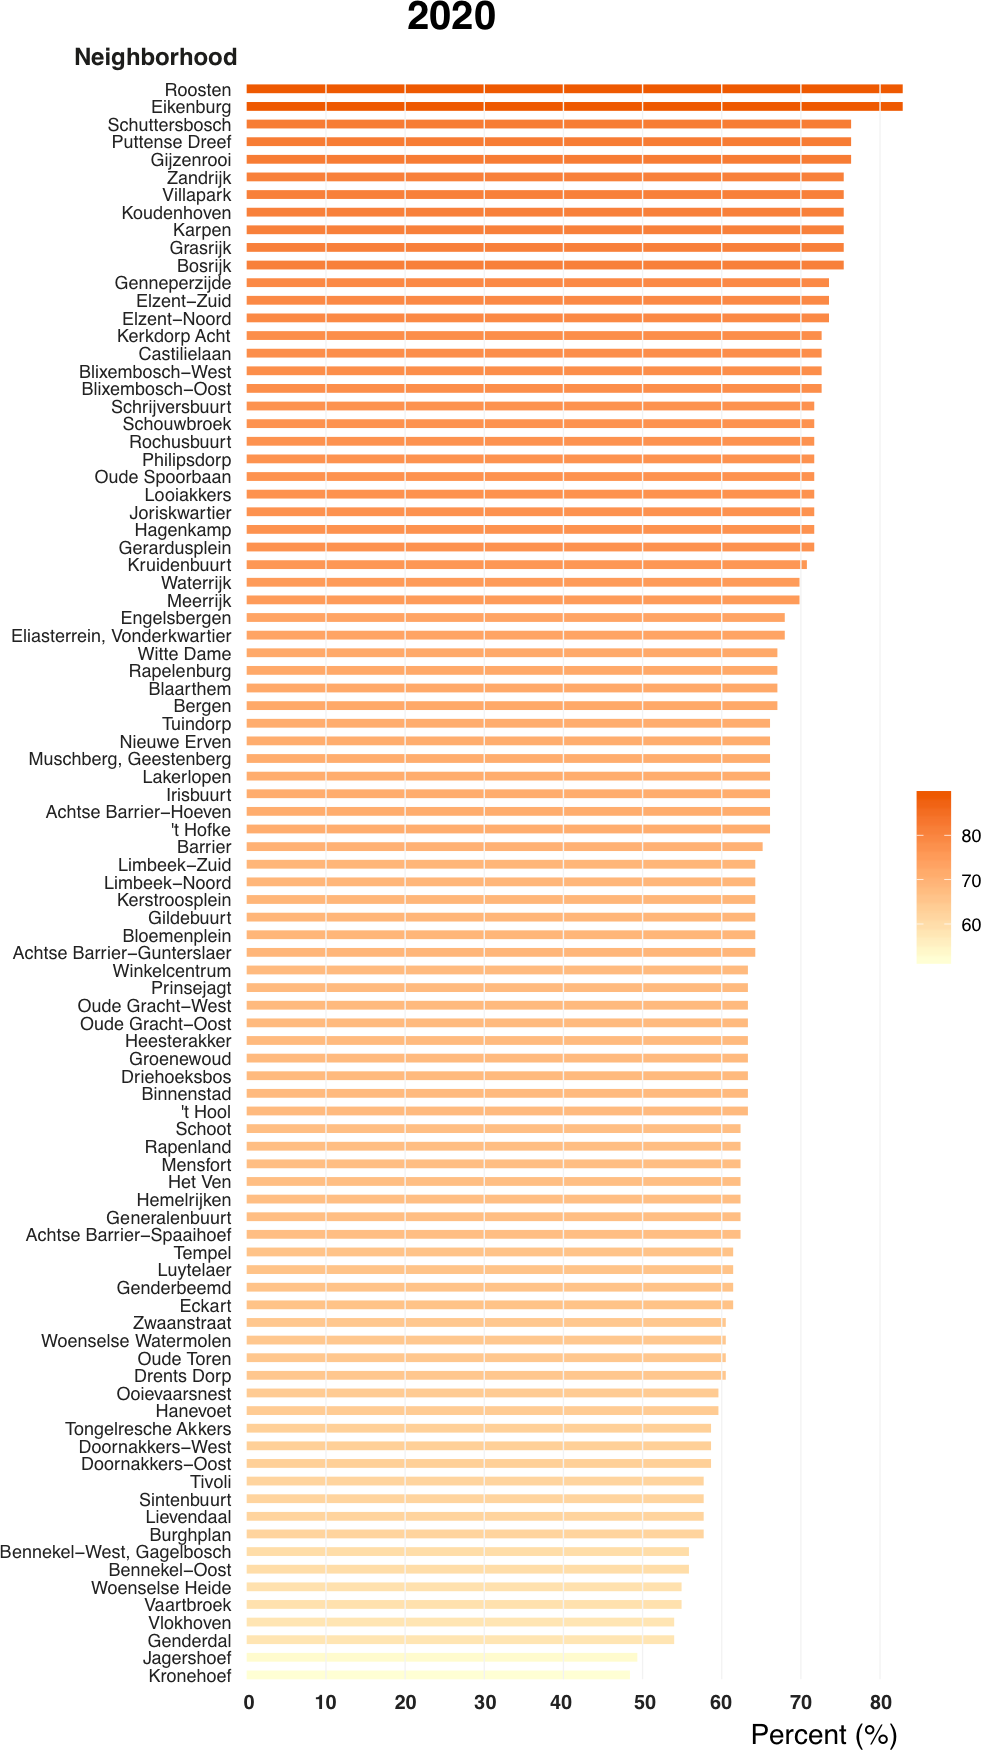
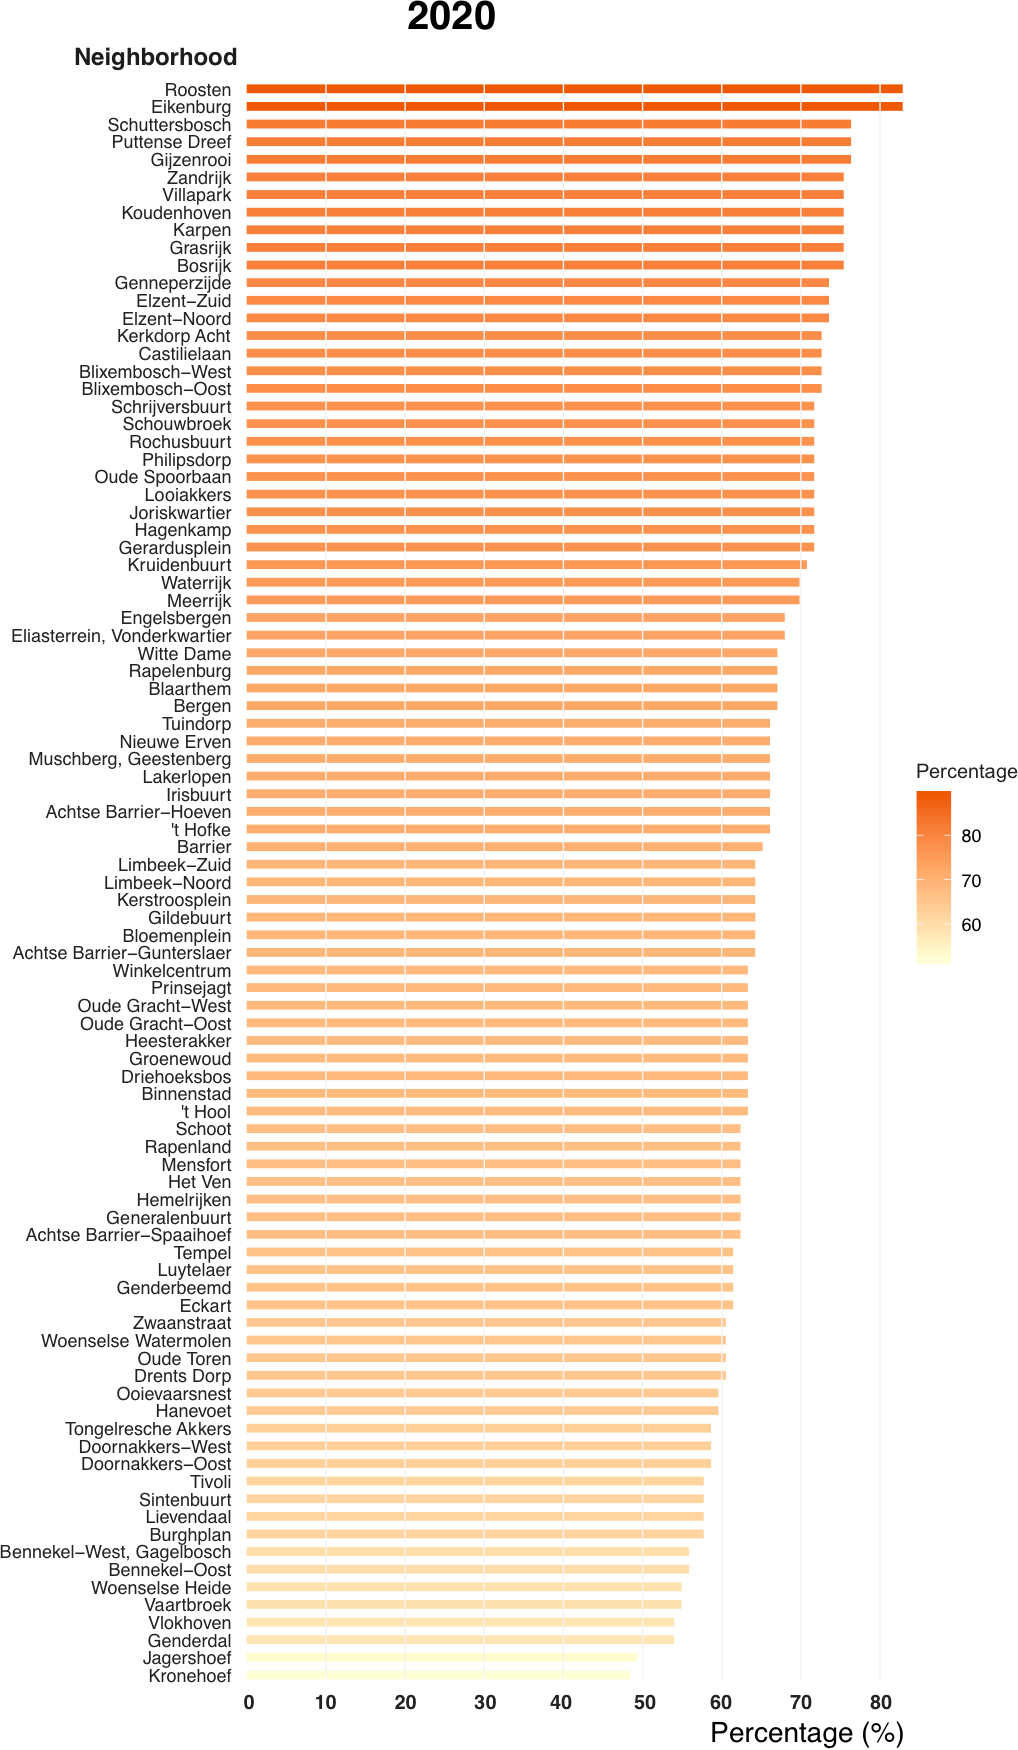
updates

diff --git a/src/assets/static/gc_typed.html b/src/assets/static/gc_typed.html
@@ -15,21 +15,21 @@
   <link rel="stylesheet" href="https://use.fontawesome.com/releases/v5.8.1/css/all.css" integrity="sha384-50oBUHEmvpQ+1lW4y57PTFmhCaXp0ML5d60M1M7uH2+nqUivzIebhndOJK28anvf" crossorigin="anonymous">
 </head>
 <body>
-  <h1 style="font-weight:200; font-size: 20px; font-family: Helvetica, sans-serif; margin-bottom: 40px;"><span style="font-weight:600">Type D</span>: Bar Charts (Sports participation by neighborhood from 2016 to 2020)</h1>
+  <h1 style="font-weight:200; font-size: 20px; font-family: Helvetica, sans-serif; margin-bottom: 40px;"><span style="font-weight:600">Type D</span>: Bar Charts (Percentage of sports participation by neighborhood from 2016 to 2020)</h1>
   <div style="display: inline-block; margin: 10px;">
-    <img src="/assets/img/gc/typed/typeD2016.png" alt="type D: Bar chart 2016" style="width: 100%; max-width: 495px;">
+    <img src="/assets/img/gc/typed/typeD2016.png" alt="type D: Bar chart 2016" style="width: 100%; max-width: 510px;">
   </div>
   <div style="display: inline-block; margin: 10px;">
-    <img src="/assets/img/gc/typed/typeD2017.png" alt="type D: Bar chart 2017" style="width: 100%; max-width: 491px;">
+    <img src="/assets/img/gc/typed/typeD2017.png" alt="type D: Bar chart 2017" style="width: 100%; max-width: 510px;">
   </div>
   <div style="display: inline-block; margin: 10px;">
-    <img src="/assets/img/gc/typed/typeD2018.png" alt="type D: Bar chart 2018" style="width: 100%; max-width: 491px;">
+    <img src="/assets/img/gc/typed/typeD2018.png" alt="type D: Bar chart 2018" style="width: 100%; max-width: 510px;">
   </div>
   <div style="display: inline-block; margin: 10px;">
-    <img src="/assets/img/gc/typed/typeD2019.png" alt="type D: Bar chart 2019" style="width: 100%; max-width: 493px;">
+    <img src="/assets/img/gc/typed/typeD2019.png" alt="type D: Bar chart 2019" style="width: 100%; max-width: 510px;">
   </div>
   <div style="display: inline-block; margin: 10px;">
-    <img src="/assets/img/gc/typed/typeD2020.png" alt="type D: Bar chart 2020" style="width: 100%; max-width: 491px;">
+    <img src="/assets/img/gc/typed/typeD2020.png" alt="type D: Bar chart 2020" style="width: 100%; max-width: 510px;">
   </div>
 </body>
 </html>

diff --git a/src/assets/static/gc_typef.html b/src/assets/static/gc_typef.html
@@ -15,7 +15,7 @@
   <link rel="stylesheet" href="https://use.fontawesome.com/releases/v5.8.1/css/all.css" integrity="sha384-50oBUHEmvpQ+1lW4y57PTFmhCaXp0ML5d60M1M7uH2+nqUivzIebhndOJK28anvf" crossorigin="anonymous">
 </head>
 <body>
-  <h1 style="font-weight:200; font-size: 20px; font-family: Helvetica, sans-serif; margin-bottom: 40px;"><span style="font-weight:600">Type F</span>: Spider charts (Sports participation by neighborhood from 2016 to 2020)</h1>
+  <h1 style="font-weight:200; font-size: 20px; font-family: Helvetica, sans-serif; margin-bottom: 40px;"><span style="font-weight:600">Type F</span>: Spider charts (Percentage of sports participation by neighborhood from 2016 to 2020)</h1>
   <div style="display: inline-block; margin: 0px;">
     <img src="/assets/img/gc/typef/typeF1.png" alt="type F: Spider chart" style="width: 100%; max-width: 300px;">
   </div>

diff --git a/src/assets/static/gc_typee.html b/src/assets/static/gc_typee.html
@@ -15,7 +15,7 @@
   <link rel="stylesheet" href="https://use.fontawesome.com/releases/v5.8.1/css/all.css" integrity="sha384-50oBUHEmvpQ+1lW4y57PTFmhCaXp0ML5d60M1M7uH2+nqUivzIebhndOJK28anvf" crossorigin="anonymous">
 </head>
 <body>
-  <h1 style="font-weight:200; font-size: 20px; font-family: Helvetica, sans-serif; margin-bottom: 40px;"><span style="font-weight:600">Type E</span>: Scatter plot (Sports participation by neighborhood from 2016 to 2020)</h1>
+  <h1 style="font-weight:200; font-size: 20px; font-family: Helvetica, sans-serif; margin-bottom: 40px;"><span style="font-weight:600">Type E</span>: Scatter plot (Percentage of sports participation by neighborhood from 2016 to 2020)</h1>
   <div style="display: inline-block; margin: 10px;">
     <img src="/assets/img/gc/typee/typeE.png" alt="type E: Scatter plot" style="width: 100%; max-width: 360px;">
   </div>

diff --git a/src/assets/static/gc_typec.html b/src/assets/static/gc_typec.html
@@ -15,7 +15,7 @@
   <link rel="stylesheet" href="https://use.fontawesome.com/releases/v5.8.1/css/all.css" integrity="sha384-50oBUHEmvpQ+1lW4y57PTFmhCaXp0ML5d60M1M7uH2+nqUivzIebhndOJK28anvf" crossorigin="anonymous">
 </head>
 <body>
-  <h1 style="font-weight:200; font-size: 20px; font-family: Helvetica, sans-serif; margin-bottom: 40px;"><span style="font-weight:600">Type C</span>: Line Graph (Sports participation by neighborhood from 2016 to 2020)</h1>
+  <h1 style="font-weight:200; font-size: 20px; font-family: Helvetica, sans-serif; margin-bottom: 40px;"><span style="font-weight:600">Type C</span>: Line Graph (Percentage of sports participation by neighborhood from 2016 to 2020)</h1>
   <div style="display: inline-block; margin: 10px;">
     <img src="/assets/img/gc/typec/typeC.png" alt="type C: Line graph" style="width: 100%; max-width: 800px;">
   </div>

diff --git a/src/assets/static/gc_typea.html b/src/assets/static/gc_typea.html
@@ -15,7 +15,7 @@
   <link rel="stylesheet" href="https://use.fontawesome.com/releases/v5.8.1/css/all.css" integrity="sha384-50oBUHEmvpQ+1lW4y57PTFmhCaXp0ML5d60M1M7uH2+nqUivzIebhndOJK28anvf" crossorigin="anonymous">
 </head>
 <body>
-  <h1 style="font-weight:200; font-size: 20px; font-family: Helvetica, sans-serif; margin-bottom: 40px;"><span style="font-weight:600">Type A</span>: Map 1 (Change of sports participation by neighborhood between 2016 and 2020)</h1>
+  <h1 style="font-weight:200; font-size: 20px; font-family: Helvetica, sans-serif; margin-bottom: 40px;"><span style="font-weight:600">Type A</span>: Map 1 (Percentage of sports participation change by neighborhood between 2016 and 2020)</h1>
   <div style="display: inline-block">
     <img src="/assets/img/gc/typea/typeA.png" alt="type A: Map" style="width: 100%; max-width: 380px;">
   </div>

diff --git a/src/assets/static/gc_typeb.html b/src/assets/static/gc_typeb.html
@@ -15,7 +15,7 @@
   <link rel="stylesheet" href="https://use.fontawesome.com/releases/v5.8.1/css/all.css" integrity="sha384-50oBUHEmvpQ+1lW4y57PTFmhCaXp0ML5d60M1M7uH2+nqUivzIebhndOJK28anvf" crossorigin="anonymous">
 </head>
 <body>
-  <h1 style="font-weight:200; font-size: 20px; font-family: Helvetica, sans-serif; margin-bottom: 40px;"><span style="font-weight:600">Type B</span>: Map 2 (Sports participation by neighborhood from 2016 to 2020)</h1>
+  <h1 style="font-weight:200; font-size: 20px; font-family: Helvetica, sans-serif; margin-bottom: 40px;"><span style="font-weight:600">Type B</span>: Map 2 (Percentage of sports participation by neighborhood from 2016 to 2020)</h1>
   <div style="display: inline-block; margin: 10px;">
     <img src="/assets/img/gc/typeb/typeB2016.png" alt="type B: Map 2016" style="width: 100%; max-width: 300px;">
   </div>

diff --git a/src/assets/static/gc_typeg.html b/src/assets/static/gc_typeg.html
@@ -15,7 +15,7 @@
   <link rel="stylesheet" href="https://use.fontawesome.com/releases/v5.8.1/css/all.css" integrity="sha384-50oBUHEmvpQ+1lW4y57PTFmhCaXp0ML5d60M1M7uH2+nqUivzIebhndOJK28anvf" crossorigin="anonymous">
 </head>
 <body>
-  <h1 style="font-weight:200; font-size: 20px; font-family: Helvetica, sans-serif; margin-bottom: 40px;"><span style="font-weight:600">Type G</span>: Table (Sports participation by neighborhood from 2016 to 2020)</h1>
+  <h1 style="font-weight:200; font-size: 20px; font-family: Helvetica, sans-serif; margin-bottom: 40px;"><span style="font-weight:600">Type G</span>: Table (Percentage of sports participation by neighborhood from 2016 to 2020)</h1>
   <div style="display: inline-block; margin: 10px;">
     <img src="/assets/img/gc/typeg/typeG.png" alt="type G: table" style="width: 100%; max-width: 450px;">
   </div>
